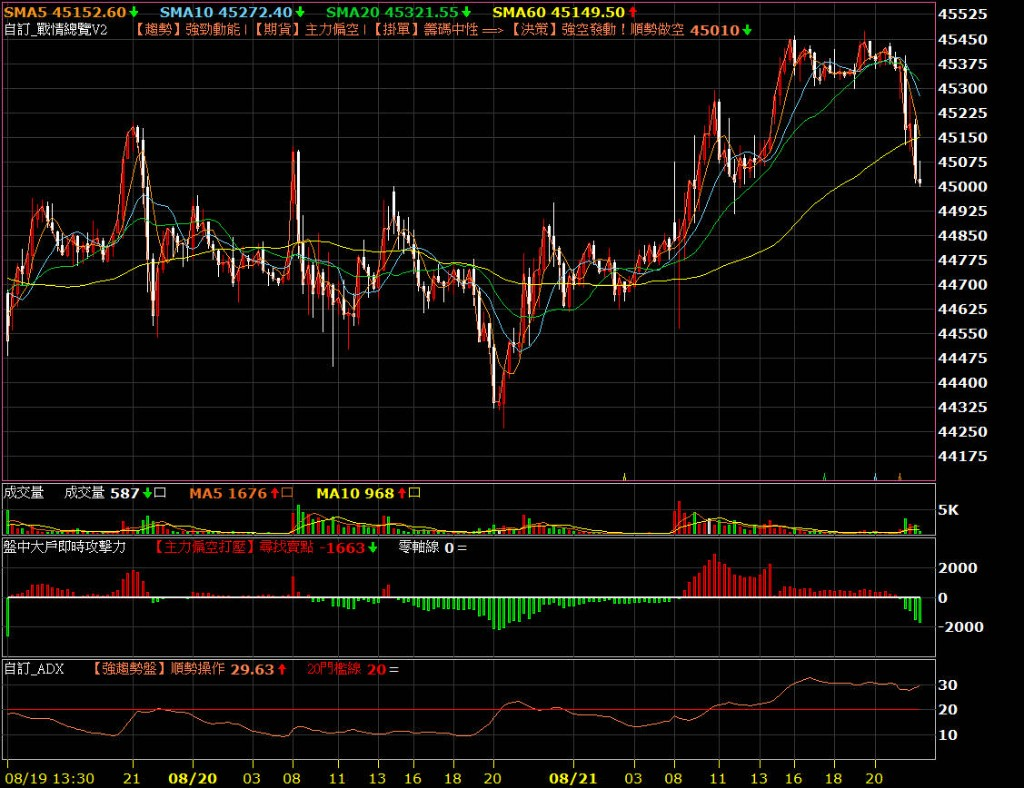
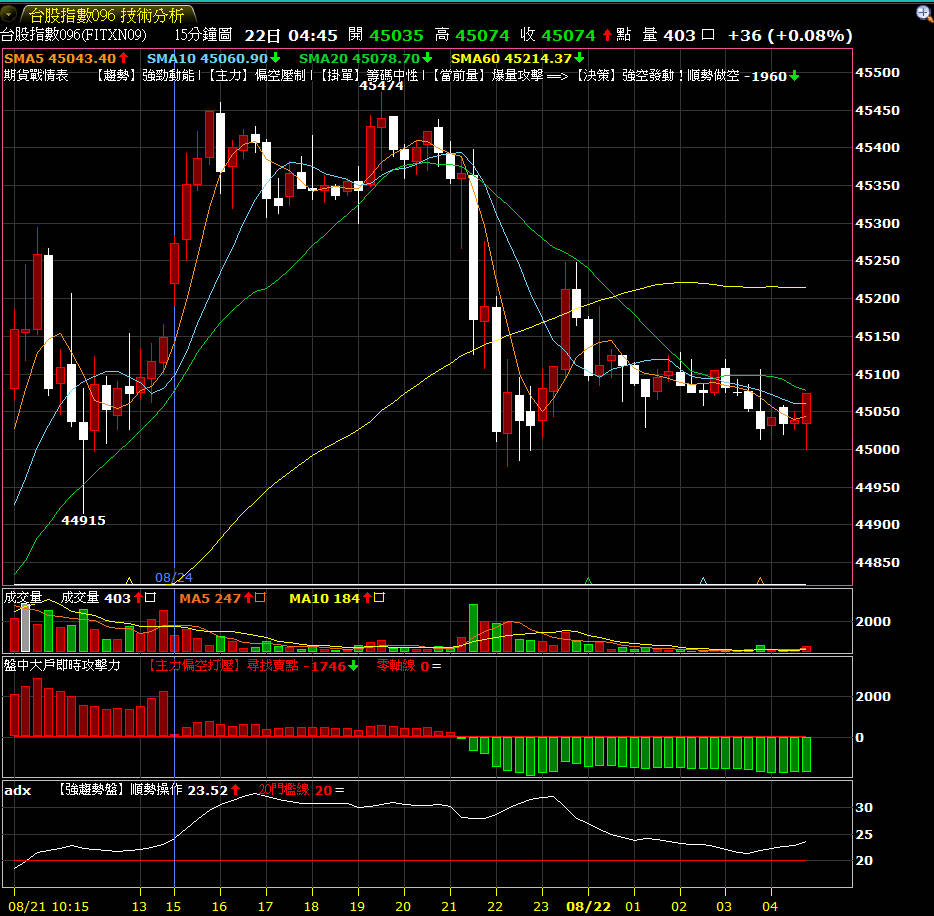
Update TX lookboard demo screenshot and FAQ.
Replace the sample chart with the latest 15K battle-table view, and document accuracy / timeframe Q&A for users.

diff --git a/XQ-Scripts/台指期看盤介面/README.md b/XQ-Scripts/台指期看盤介面/README.md
@@ -32,6 +32,14 @@
 
 ## ❓ 常見問題與除錯 (Troubleshooting)
 
+### Q: 請問指標準嗎？
+
+世界上並不存在準的指標，市場的未來走勢有著不可預測性。用在 15 分 K 的用意是可以看穿全市場的動態，至少不要跟市場做相反的方向。
+
+### Q: 指標是用 15 分 K，其他週期可以嗎？
+
+看你做的週期決定。短進短出可以用 5K 或 1K，但相對的容易被洗。
+
 ### Q: 主圖上方沒有顯示「戰情總覽」文字？
 
 如果將指標套用至主圖後，左上角完全沒有出現戰情總覽文字，通常是 **XQ 的主圖指標字體設定過大** 導致版面無法完整繪製。
